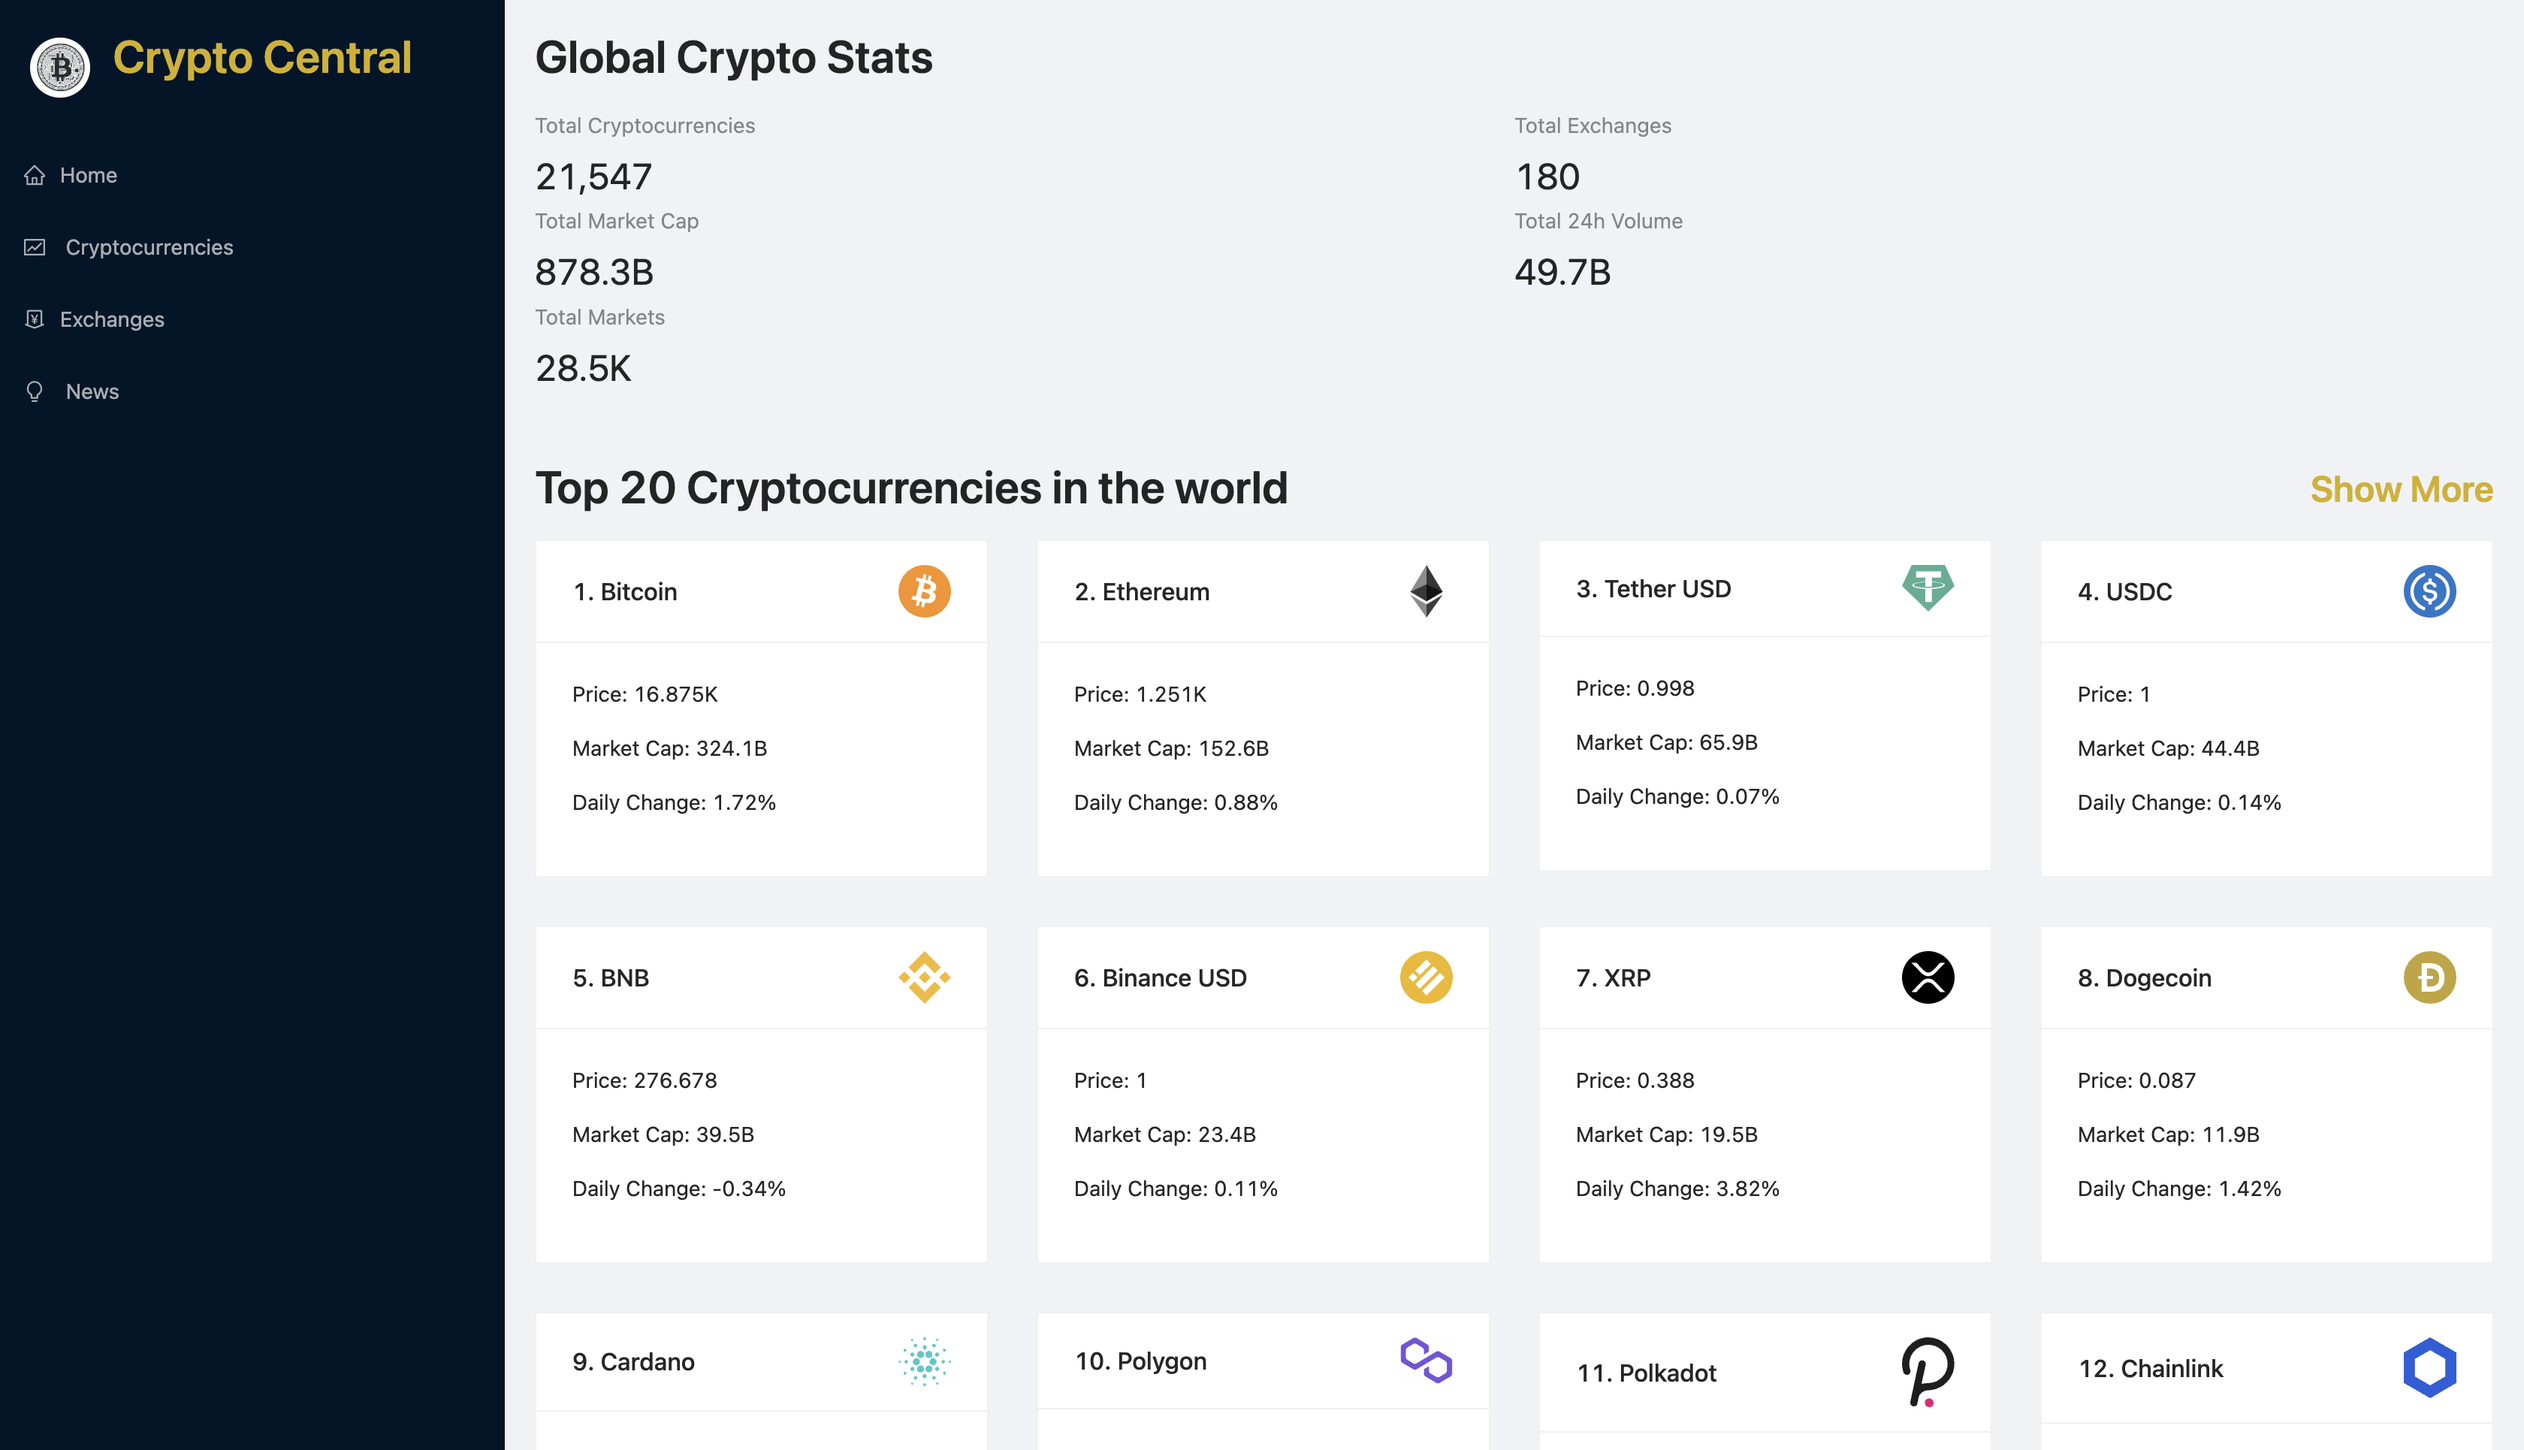
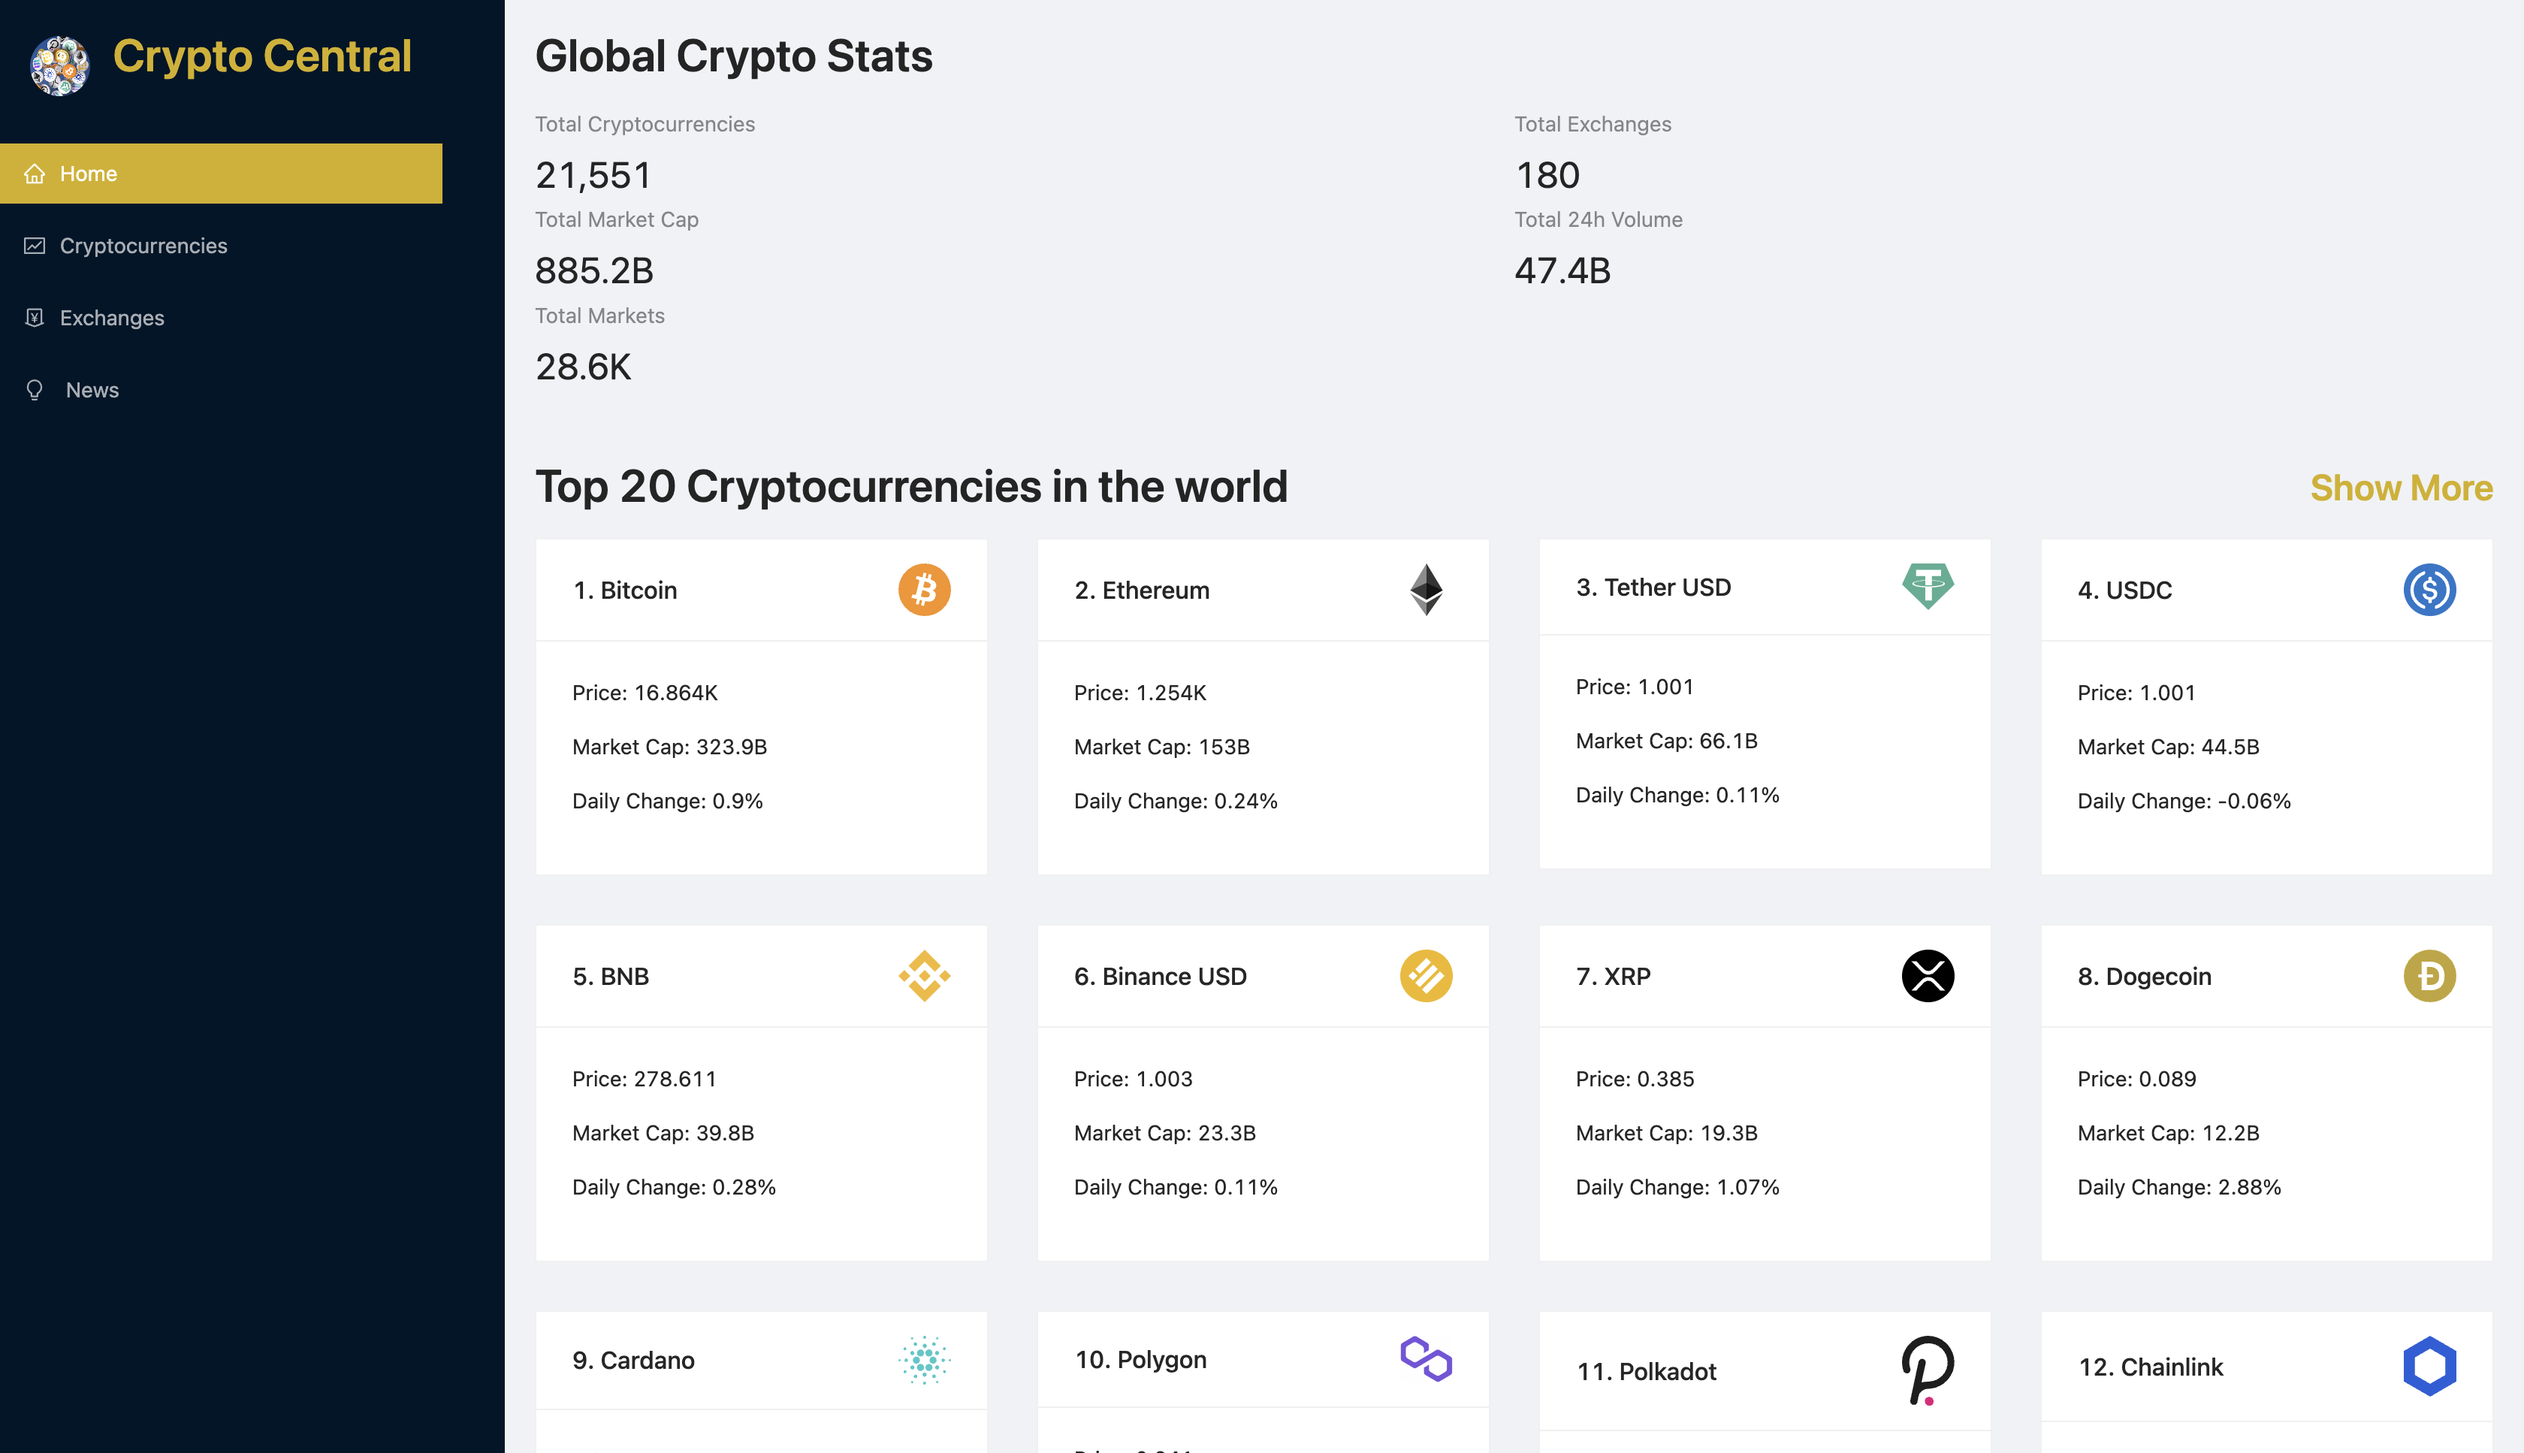
final

diff --git a/src/components/Navbar.jsx b/src/components/Navbar.jsx
@@ -2,12 +2,14 @@ import React, {useState, useEffect} from 'react'
 import { Button, Menu, Typography, Avatar } from 'antd';
 import { Link } from 'react-router-dom';
 import { HomeOutlined, MoneyCollectOutlined, BulbOutlined, FundOutlined, MenuOutlined } from '@ant-design/icons';
-import icon from '../images/btcLogo.jpeg';
+import logo from '../images/ccLogo.png';
 
 const Navbar = () => {
+    // statefields for responsive menu
     const [activeMenu, setActiveMenu] = useState(true);
     const [screenSize, setScreenSize] = useState(null);
 
+    // Function that runs once at the start of render, no dependency array - resizes navbar so it is responsive.
     useEffect (()=> {
         const handleResize = () => setScreenSize(window.innerWidth);
 
@@ -18,6 +20,7 @@ const Navbar = () => {
         return () => window.removeEventListener('resize', handleResize);
     }, []);
 
+    // This useEffect only runs when screenSize changes. If screensize is less than 768px, it is a mobile device.
     useEffect (() => {
         if(screenSize < 768) {
             setActiveMenu(false);
@@ -29,7 +32,7 @@ const Navbar = () => {
   return (
      <div className="nav-container">
             <div className="logo-container">
-                <Avatar src={icon} size="large" />
+                <Avatar src={logo} size="large" />
                 <Typography.Title level={2} className="logo">
                     <Link to="/">Crypto Central</Link>
                 </Typography.Title>
@@ -39,16 +42,16 @@ const Navbar = () => {
             </div>
             {activeMenu && (
                 <Menu theme='dark'>
-                <Menu.Item icon={<HomeOutlined />}>
+                <Menu.Item key={"home"} icon={<HomeOutlined />}>
                     <Link to="/">Home</Link>
                 </Menu.Item>
-                <Menu.Item icon={<FundOutlined />}>
-                    <Link to="/cryptocurrencies"> Cryptocurrencies </Link>
+                <Menu.Item key={"cryptocurrencies"} icon={<FundOutlined />}>
+                    <Link to="/cryptocurrencies">Cryptocurrencies</Link>
                 </Menu.Item>
-                <Menu.Item icon={<MoneyCollectOutlined />}>
+                <Menu.Item key={"exchanges"} icon={<MoneyCollectOutlined />}>
                     <Link to="/exchanges">Exchanges</Link>
                 </Menu.Item>
-                <Menu.Item icon={<BulbOutlined />}>
+                <Menu.Item key={"news"} icon={<BulbOutlined />}>
                     <Link to="/news"> News </Link>
                 </Menu.Item>
             </Menu>
@@ -57,4 +60,4 @@ const Navbar = () => {
     )
 }
 
-export default Navbar
+export default Navbar;

diff --git a/src/services/cryptoApi.js b/src/services/cryptoApi.js
@@ -1,6 +1,5 @@
 import { createApi, fetchBaseQuery } from '@reduxjs/toolkit/query/react';
 
-
 const cryptoApiHeaders = {
     'X-RapidAPI-Key': process.env.REACT_APP_CRYPTO_API_KEY,
     'X-RapidAPI-Host': 'coinranking1.p.rapidapi.com'
@@ -11,23 +10,23 @@ const cryptoApiHeaders = {
   // utility function to pass headers to our api calls
   const createRequest = (url) => ({ url, headers: cryptoApiHeaders })
   
-  console.log(process.env);
+  console.log(process.env); //logs our API keys
 
   export const cryptoApi = createApi({
-        reducerPath: 'cryptoApi', // 1) set the path, what is reducer for 
+        reducerPath: 'cryptoApi', // 1) set the path, what is reducer for? 2) create endpoint 3) add reducer to store
         baseQuery: fetchBaseQuery({ baseUrl }),
         endpoints: (builder) => ({
             getCryptos: builder.query({
-                query: (count) => createRequest(`/coins?limit=${count}`)//Endpoint 1: Pass count into the query to get 10 coins. Set key to limit and value to count - template string
+                query: (count) => createRequest(`/coins?limit=${count}`)//Endpoint 1: Pass count into the query to get 10 coins. Set key to limit and value to count in template string. 
             }),
             getExchanges: builder.query({
               query: () => createRequest(`/exchanges`)//Endpoint 2
           }),
             getCryptoDetails: builder.query({
-              query: (coinId) => createRequest(`/coin/${coinId}`)//Endpoint 4: Pass coinId into the query - to render our CryptoDetails component.
+              query: (coinId) => createRequest(`/coin/${coinId}`)//Endpoint 3: Pass coinId into the query - to render our CryptoDetails component.
             }),
             getCryptoHistory: builder.query({
-            query: ({ coinId, timePeriod }) => createRequest(`coin/${coinId}/history?timePeriod=${timePeriod}`)//Endpoint 5: Pass coinId and timeperiod into the query - to render our Line Charts component.
+            query: ({ coinId, timePeriod }) => createRequest(`coin/${coinId}/history?timePeriod=${timePeriod}`)//Endpoint 4: Pass coinId and timeperiod into the query - to render our Line Charts component.
             })
         })
   });

diff --git a/src/components/Cryptocurrencies.jsx b/src/components/Cryptocurrencies.jsx
@@ -19,27 +19,24 @@ const Cryptocurrencies = ({ simplified }) => {
 
   }, [cryptosList, searchTerm]); // function will run at the start but also anytime the cryptosList or searchTerm value changes
 
-  if (isFetching) return <Loader />;
-
+  if (isFetching) return <Loader />; // if we are fetching data, return Loader component so we don't get an error
 
   return (
     <>
-
-      {/* 1 Create a row with gutters - spaces between the items [top&bottom, left&right] 
-        2 Get every cryptocurrency and instantly return column or columns dependent on screen size.
+      {/* 1 Row with gutters - spaces between the items [top&bottom, left&right] 
+        2 map over every crypto and instantly return column or columns dependent on screen size.
             Since ANTD is based off 24 columns, xs = 1 column, sm = 2 columns, lg = 4 columns. 
         3 Inside the column is a link which links to the crypto id. Inside the link is a card. 
         4 Inside the card is a particular crypto's price, market cap and daily change %
         5 Create a search box and set it's state.
         6 Wrap the search bar in an if statement. We do this to display the search bar only when simplified is true 
         - which is when only 10 cryptos are listed. Now, search will not display unless user clicks "Show More"  */}
-
-      {!simplified && (<div className="search-crypto"> {/* 5 & 6 */}
-        <Input placeholder="Search a Cryptocurrency" onChange={(e) => setSearchTerm(e.target.value)} />
-      </div>)}
+      {!simplified && (<div className="search-crypto"> {/* 6 */}
+        <Input placeholder="Search a Cryptocurrency" onChange={(e) => setSearchTerm(e.target.value)} /> {/* 5 */}
+      </div>)} 
       <Row gutter={[32, 32]} className='crypto-card-container'> {/* 1 */}
-        {cryptos?.map((coin) => (
-          <Col xs={24} sm={12} lg={6} className='crypto-card' key={coin.uuid}> {/* 2 */}
+        {cryptos?.map((coin) => ( // 2
+          <Col xs={24} sm={12} lg={6} className='crypto-card' key={coin.uuid}> 
             <Link key={coin.uuid} to={`/crypto/${coin.uuid}`}> {/* 3 */}
               <Card
                 title={`${coin.rank}. ${coin.name}`}

diff --git a/src/components/Homepage.jsx b/src/components/Homepage.jsx
@@ -15,7 +15,7 @@ const Homepage = () => {
   const { data, isFetching } = useGetCryptosQuery(10);//Call as a hook. First get the data then redux gives us isFetching state. Pass in 10 to get 10 cryptos.
   const globalStats = data?.data?.stats; // we create a global stats object to use the data
 
-  if(isFetching) return <Loader />;
+  if(isFetching) return <Loader />; // If we are fetching data, return loader component. Otherwise, we get an error.
 
   return (
       <>
@@ -29,7 +29,7 @@ const Homepage = () => {
         </Row>
         <div className="home-heading-container">
             <Title level={2} className="home-title">Top 20 Cryptocurrencies in the world</Title>
-            <Title level={3} className="show-more"><Link to='/cryptocurrencies'> Show More</Link></Title>
+            <Title level={3} className="show-more"><Link to='/cryptocurrencies'>Show More</Link></Title>
         </div>
         <Cryptocurrencies simplified /> {/* simplifed prop only shows first 20 cryptocurrencies*/}
         <div className="home-heading-container">

diff --git a/src/components/News.jsx b/src/components/News.jsx
@@ -7,7 +7,6 @@ import { useGetCryptosQuery } from '../services/cryptoApi';
 
 import Loader from './Loader';
 
-
 const { Text, Title } = Typography; //destructure so we can say just 'Text' or 'Title'
 const { Option } = Select;
 
@@ -20,11 +19,8 @@ const News = ({ simplified }) => {
 
   if(!cryptoNews?.value) return <Loader />;
 
-  
- 
-
   return (
-      <Row gutter={[24, 24]}>
+      <Row key={''} gutter={[24, 24]}>
         {/* if not simplified - we are viewing all news and not just 6 articles, render a select
             the onChange property allows us to set the state of the select - setNewsCategory - created state above.
             filterOption prop allows user to filter through articles by specific crypto so user can then view articles 

diff --git a/src/app/store.js b/src/app/store.js
@@ -1,12 +1,11 @@
-// This file holds our entire application's state. 
 import { configureStore } from '@reduxjs/toolkit';
 import { cryptoApi } from '../services/cryptoApi';
 import { cryptoNewsApi } from '../services/cryptoNewsApi';
 
-
+// This file holds our entire application's state. 
 export default configureStore({
     reducer: {    
-        [cryptoApi.reducerPath]: cryptoApi.reducer,
-        [cryptoNewsApi.reducerPath]: cryptoNewsApi.reducer,
+        [cryptoApi.reducerPath]: cryptoApi.reducer, // 3) add reducer
+        [cryptoNewsApi.reducerPath]: cryptoNewsApi.reducer, // 3) add reducer
     },
 });

diff --git a/public/index.html b/public/index.html
@@ -2,7 +2,7 @@
 <html lang="en">
   <head>
     <meta charset="utf-8" />
-    <link rel="icon" href="%PUBLIC_URL%/favicon.ico" />
+    <link rel="icon" href="%PUBLIC_URL%/ccLogo.png" />
     <meta name="viewport" content="width=device-width, initial-scale=1" />
     <meta name="theme-color" content="#000000" />
     <meta name="description" content="Web site created using create-react-app" />
@@ -12,8 +12,6 @@
   </head>
   <body>
     <noscript>You need to enable JavaScript to run this app.</noscript>
-    <div id="root">
-      
-    </div>
+    <div id="root"></div>
   </body>
 </html>

diff --git a/src/services/cryptoNewsApi.js b/src/services/cryptoNewsApi.js
@@ -16,7 +16,7 @@ const cryptoNewsHeaders =  {
     baseQuery: fetchBaseQuery({ baseUrl }),
     endpoints: (builder) => ({
         getCryptoNews: builder.query({
-            query: ({ newsCategory, count}) => createRequest(`/news/search?q=${newsCategory}&safeSearch=Off&textFormat=Raw&freshness=Day&count=${count}`),
+            query: ({ newsCategory, count}) => createRequest(`/news/search?q=${newsCategory}&safeSearch=Off&textFormat=Raw&freshness=Day&count=${count}`), // 2) only crypto news endpoint, next step is to add the reducer to the store
         })
     })
 });

diff --git a/src/components/Loader.jsx b/src/components/Loader.jsx
@@ -1,6 +1,7 @@
 import React from 'react'
 import { Spin } from 'antd';
 
+// render this component whenever we try to fetch data so we can avoid error and user will know we are fetching data
 const Loader = () => {
   return (
     <div className="loader">
@@ -9,4 +10,4 @@ const Loader = () => {
   )
 }
 
-export default Loader
+export default Loader;

diff --git a/craco.config.js b/craco.config.js
@@ -1,5 +1,6 @@
 const CracoLessPlugin = require('craco-less');
 
+// This plugin adds Less support. We can use it to create a custom theme or style antd components.
 module.exports = {
   plugins: [
     {

diff --git a/src/App.less b/src/App.less
@@ -3,7 +3,7 @@
 :root{
     --textSecondary:#d6e4e1;
     --bgPrimary:#001529;
-   --bgSecondary: #d4b108;
+   --bgSecondary: #d4b107;
     --link: #00050b; 
    --border: #d9d9d9;
 }

diff --git a/src/components/CryptoDetails.jsx b/src/components/CryptoDetails.jsx
@@ -107,5 +107,4 @@ const CryptoDetails = () => {
   );
 };
 
-
 export default CryptoDetails;
